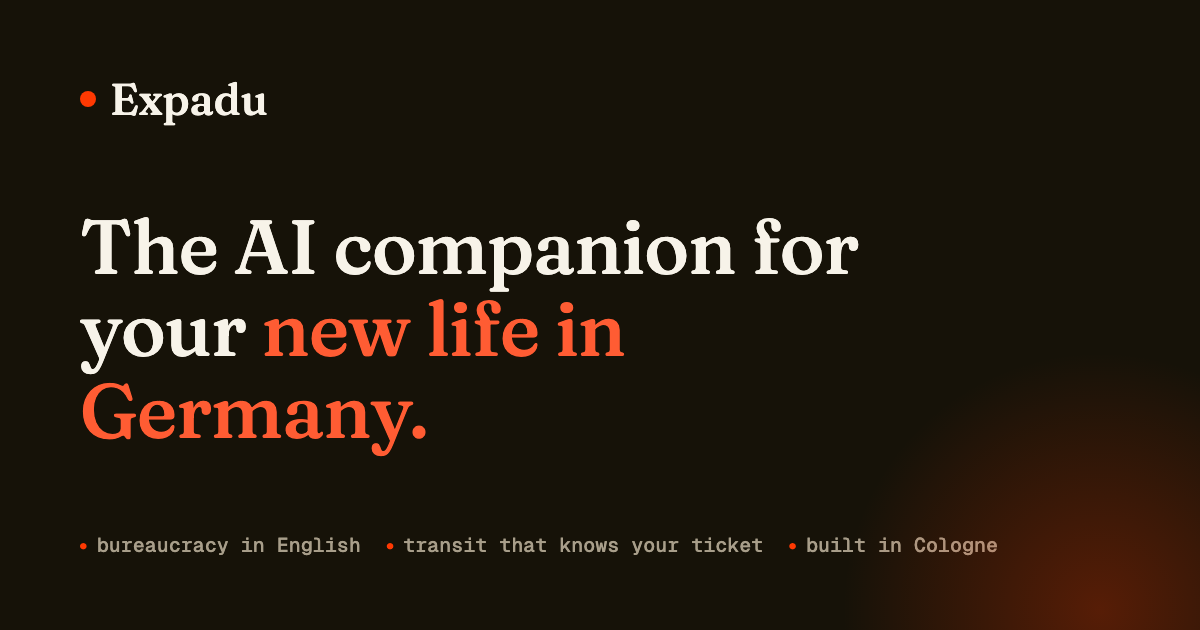
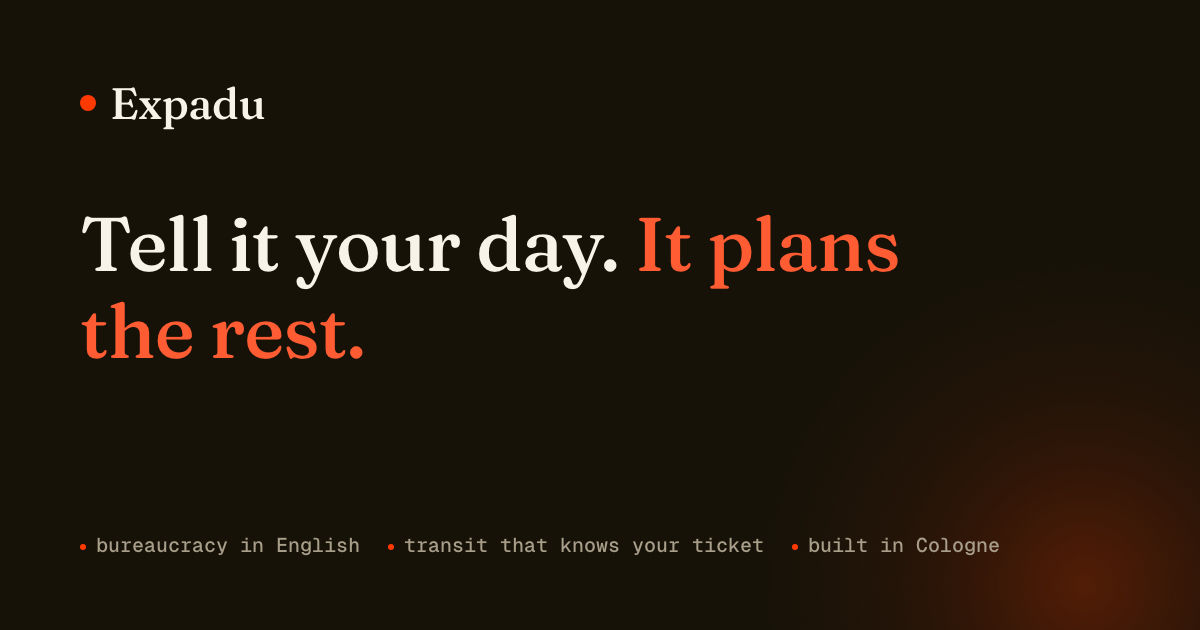
fix(seo): give each marketing page its own share title and card
Every share showed the same stale card ("The AI companion for your new
life in Germany") and a fixed og:title. og:title now defaults to the
page's own title, and the tools, guides and blog pages each point
og:image at a card carrying their headline. The landing card is redrawn
with the current tagline; legal pages keep it as the default.

The cards are rendered from prototype/og-cards/card.html (the original
card's layout and colours) by render.mjs; re-run it when a title changes.

diff --git a/prototype/og-cards/card.html b/prototype/og-cards/card.html
@@ -1,0 +1,117 @@
+<!doctype html>
+<!--
+    Open Graph card template (1200×630) for the marketing pages, matching the
+    original public/marketing/og-landing.png. render.mjs fills it per page.
+-->
+<html lang="en">
+    <head>
+        <meta charset="utf-8" />
+        <style>
+            @font-face {
+                font-family: Fraunces;
+                font-weight: 500;
+                src: url(../../public/fonts/fraunces-500.woff2) format('woff2');
+            }
+            @font-face {
+                font-family: 'Geist Mono';
+                font-weight: 500;
+                src: url(../../public/fonts/geist-mono-500.woff2)
+                    format('woff2');
+            }
+
+            * {
+                box-sizing: border-box;
+                margin: 0;
+            }
+            html,
+            body {
+                width: 1200px;
+                height: 630px;
+                overflow: hidden;
+            }
+            body {
+                position: relative;
+                background: radial-gradient(
+                    circle at 1085px 585px,
+                    #521d06 0,
+                    #311607 120px,
+                    #241408 185px,
+                    #161208 330px
+                );
+                color: #f7f3e9;
+                font-family: Fraunces, serif;
+                font-weight: 500;
+                -webkit-font-smoothing: antialiased;
+            }
+            .mark {
+                position: absolute;
+                left: 80px;
+                top: 76px;
+                display: flex;
+                align-items: center;
+                gap: 14px;
+                font-size: 44px;
+                letter-spacing: -0.01em;
+            }
+            .mark::before {
+                content: '';
+                width: 16px;
+                height: 16px;
+                border-radius: 50%;
+                background: #ff3902;
+            }
+            .eyebrow {
+                position: absolute;
+                left: 80px;
+                top: 164px;
+                font:
+                    500 20px 'Geist Mono',
+                    monospace;
+                letter-spacing: 0.14em;
+                text-transform: uppercase;
+                color: #ff5c33;
+            }
+            h1 {
+                position: absolute;
+                left: 80px;
+                width: 820px;
+                top: 200px;
+                font-size: var(--size, 76px);
+                line-height: 1.15;
+                letter-spacing: -0.012em;
+                font-weight: 500;
+            }
+            h1 em {
+                font-style: normal;
+                color: #ff5c33;
+            }
+            .tags {
+                position: absolute;
+                left: 80px;
+                bottom: 72px;
+                display: flex;
+                gap: 28px;
+                font:
+                    500 20px 'Geist Mono',
+                    monospace;
+                color: #a89e8a;
+            }
+            .tags span::before {
+                content: '';
+                display: inline-block;
+                width: 6px;
+                height: 6px;
+                border-radius: 50%;
+                background: #ff3902;
+                margin-right: 10px;
+                vertical-align: middle;
+            }
+        </style>
+    </head>
+    <body>
+        <div class="mark">Expadu</div>
+        <div class="eyebrow" id="eyebrow"></div>
+        <h1 id="title"></h1>
+        <div class="tags" id="tags"></div>
+    </body>
+</html>

diff --git a/resources/views/marketing/layout.blade.php b/resources/views/marketing/layout.blade.php
@@ -13,10 +13,12 @@
 
     <meta property="og:site_name" content="Expadu">
     <meta property="og:type" content="website">
-    <meta property="og:title" content="@yield('og_title', 'Expadu — The AI companion for your new life in Germany')">
+    <meta property="og:title" content="@section('og_title')@yield('title', 'Expadu — Tell it your day. It plans the rest.')@show">
     <meta property="og:description" content="@yield('meta_description', 'Tell it your day — it plans the rest. Bureaucracy in English with official sources, transit that knows your ticket, and an AI day composer. Built for Cologne.')">
     <meta property="og:url" content="@yield('canonical', $canonicalFallback)">
     <meta property="og:image" content="@yield('og_image', asset('marketing/og-landing.png'))">
+    <meta property="og:image:width" content="1200">
+    <meta property="og:image:height" content="630">
     <meta name="twitter:card" content="summary_large_image">
 
     <meta name="theme-color" media="(prefers-color-scheme: light)" content="#faf6ee">

diff --git a/resources/views/marketing/tools/netto-brutto.blade.php b/resources/views/marketing/tools/netto-brutto.blade.php
@@ -3,6 +3,7 @@
 @section('title', 'Netto-Brutto calculator '.$year.' — what\'s left of your German salary? — Expadu')
 @section('meta_description', 'Gross to net salary in Germany, '.$year.' rules: all six tax classes, every Bundesland, church tax, children, statutory or private insurance — cross-checked against the official BMF calculator. Free, no signup.')
 @section('canonical', route('tools.netto'))
+@section('og_image', asset('marketing/og/tools-netto-brutto.png'))
 @section('waitlist_source', 'tool-netto')
 
 @push('head')

diff --git a/resources/views/marketing/tools/dticket.blade.php b/resources/views/marketing/tools/dticket.blade.php
@@ -3,6 +3,7 @@
 @section('title', 'Deutschlandticket break-even calculator (Cologne, 2026) — Expadu')
 @section('meta_description', 'Is the €'.number_format($dticketEur, 0).' Deutschlandticket worth it for how you actually move? Drag your weekly trips — honest verdict with Cologne\'s current Rheinlandtarif fares. Free, no signup.')
 @section('canonical', route('tools.dticket'))
+@section('og_image', asset('marketing/og/tools-dticket.png'))
 @section('waitlist_source', 'tool-dticket')
 
 @push('head')

diff --git a/resources/views/marketing/tools/residency.blade.php b/resources/views/marketing/tools/residency.blade.php
@@ -3,6 +3,7 @@
 @section('title', 'Permanent residency (Niederlassungserlaubnis) timeline calculator — Expadu')
 @section('meta_description', 'When can you get German permanent residency? Watch your timeline fill up — Blue Card, skilled worker, family or general track (§9/§18c/§28 AufenthG).')
 @section('canonical', route('tools.residency'))
+@section('og_image', asset('marketing/og/tools-residency.png'))
 @section('waitlist_source', 'tool-residency')
 
 @push('head')

diff --git a/resources/views/marketing/tools/citizenship.blade.php b/resources/views/marketing/tools/citizenship.blade.php
@@ -3,6 +3,7 @@
 @section('title', 'German citizenship quiz — are you on track? (2024 rules) — Expadu')
 @section('meta_description', 'Five questions against the reformed StAG: 5-year standard track, 3-year fast track, spouse route — and dual citizenship. With sources, no signup.')
 @section('canonical', route('tools.citizenship'))
+@section('og_image', asset('marketing/og/tools-citizenship.png'))
 @section('waitlist_source', 'tool-citizenship')
 
 @push('head')

diff --git a/resources/views/marketing/blog/show.blade.php b/resources/views/marketing/blog/show.blade.php
@@ -4,6 +4,10 @@
 @section('meta_description', $post['description'])
 @section('canonical', route('blog.show', $post['slug']))
 @section('og_title', $post['title'])
+@php
+    $ogImage = is_file(public_path("marketing/og/guide-{$post['slug']}.png")) ? "marketing/og/guide-{$post['slug']}.png" : 'marketing/og-landing.png';
+@endphp
+@section('og_image', asset($ogImage))
 @section('waitlist_source', 'blog-'.$post['slug'])
 
 @push('styles')

diff --git a/resources/views/marketing/tools/index.blade.php b/resources/views/marketing/tools/index.blade.php
@@ -3,6 +3,7 @@
 @section('title', 'Free tools for life in Germany — Expadu')
 @section('meta_description', 'Free calculators for newcomers in Germany: netto-brutto salary, Deutschlandticket break-even, permanent-residency timeline, citizenship quiz. No signup, official sources.')
 @section('canonical', route('tools.index'))
+@section('og_image', asset('marketing/og/tools.png'))
 
 @section('content')
 <section>

diff --git a/resources/views/marketing/blog/index.blade.php b/resources/views/marketing/blog/index.blade.php
@@ -3,6 +3,7 @@
 @section('title', 'Guides for your life in Germany — Expadu Blog')
 @section('meta_description', 'Practical English guides for newcomers in Germany — Anmeldung, permits, insurance, transit. Every claim linked to its official source.')
 @section('canonical', route('blog.index'))
+@section('og_image', asset('marketing/og/guides.png'))
 
 @section('content')
 <section>
